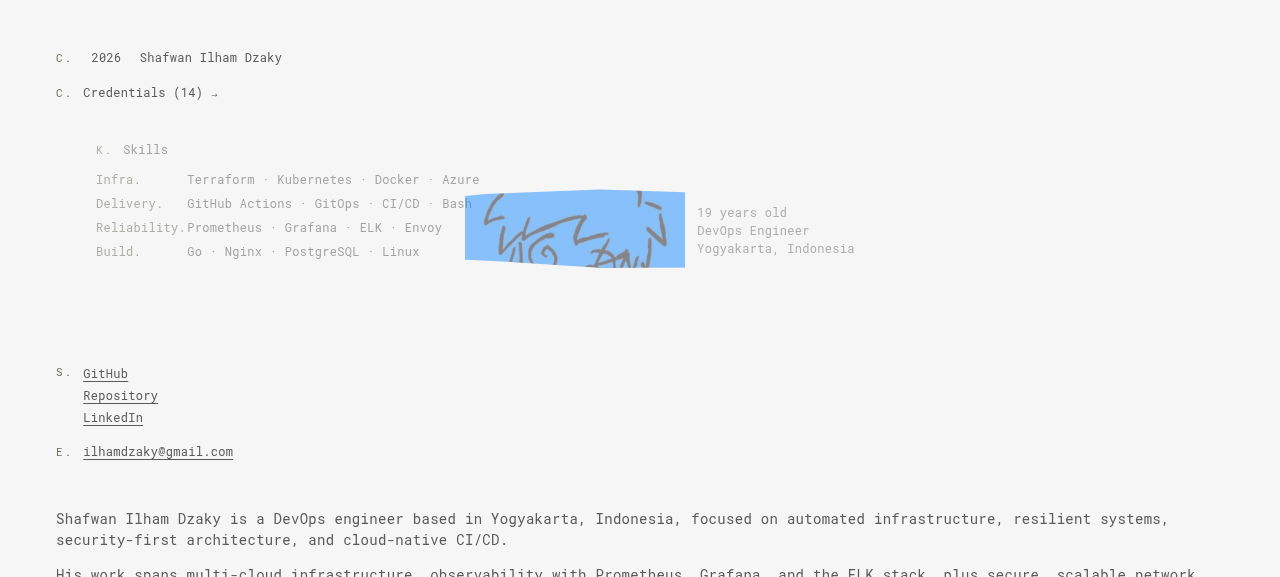
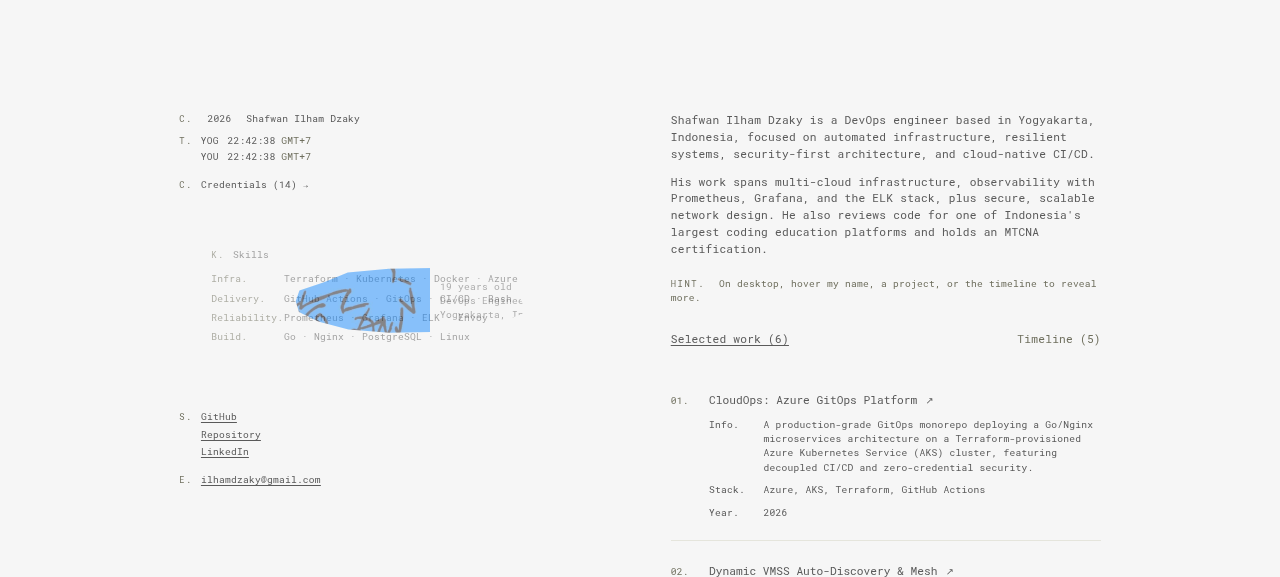
style: scale desktop portfolio layout

diff --git a/assets/css/main.css b/assets/css/main.css
@@ -32,6 +32,7 @@ a { color: inherit; }
 .root a, .root a *, .root button, .root button * { cursor: pointer; }
 .root { display: grid; grid-template-columns: 1fr 1fr; align-items: start; gap: clamp(48px, 6vw, 96px); padding: 0 24px 48px; max-width: 1200px; margin: 0 auto; }
 .col-sticky { position: sticky; top: 0; align-self: start; order: 1; display: flex; flex-direction: column; height: calc(100vh - 90px); height: calc(100dvh - 90px); justify-content: space-between; padding-top: 140px; text-align: left; }
+@media (min-width: 901px) { .root { zoom: .8; } .col-sticky { height: calc(125dvh - 112.5px); } }
 .col-scroll { order: 2; padding-top: 140px; }
 .section { margin-bottom: 0; }
 .tag { font-size: 11px; letter-spacing: .18em; text-transform: uppercase; color: var(--muted); }
@@ -129,7 +130,7 @@ a { color: inherit; }
 .cert-preview { position: fixed; z-index: 999; width: 176px; height: 176px; overflow: hidden; border: 1px solid var(--hairline); background: var(--canvas); opacity: 0; pointer-events: none; will-change: transform, opacity; transition: opacity 220ms ease-out, transform 220ms ease-out; }
 .cert-preview img { display: block; width: 100%; height: 100%; object-fit: contain; }
 
-@media (max-width: 900px), (max-height: 700px) {
+@media (max-width: 900px) {
   .root { grid-template-columns: 1fr; gap: 0; padding: 48px 16px 32px; }
   .col-sticky { position: static; order: 1; height: auto; display: flex; flex-direction: column; overflow: visible; padding-top: 0; text-align: left; }
   .col-scroll { order: 2; padding-top: 48px; margin-bottom: 0; }
